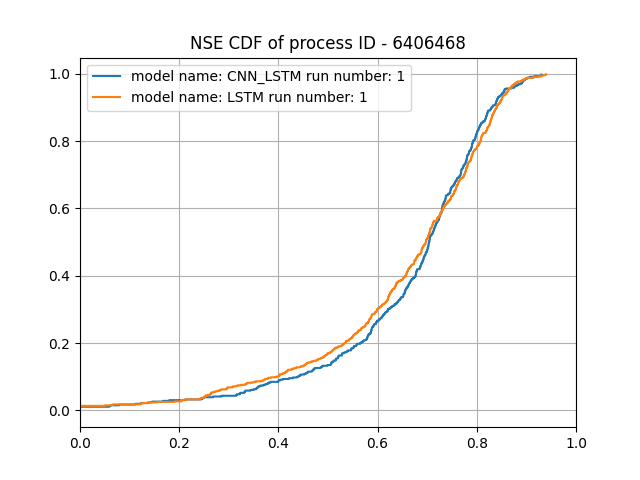
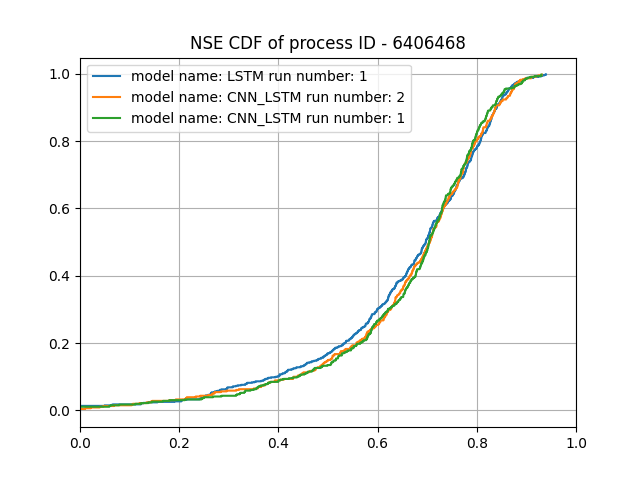
changing the bash script of running the Transformer_CNN

diff --git a/src/calculate_NSE_per_basin.py b/src/calculate_NSE_per_basin.py
@@ -46,7 +46,7 @@ def create_dict_basin_id_to_NSE_my_code(logs_filename):
 
 
 def plot_NSE_CDF_graphs_my_code():
-    input_file_name = "slurm-6406468.out"
+    input_file_name = "slurm-6434807.out"
     d = create_dict_basin_id_to_NSE_my_code(f"{input_file_name}")
     run_numbers = set([run_number for _, run_number in d.keys()])
     model_names = set([model_name for model_name, _ in d.keys()])
